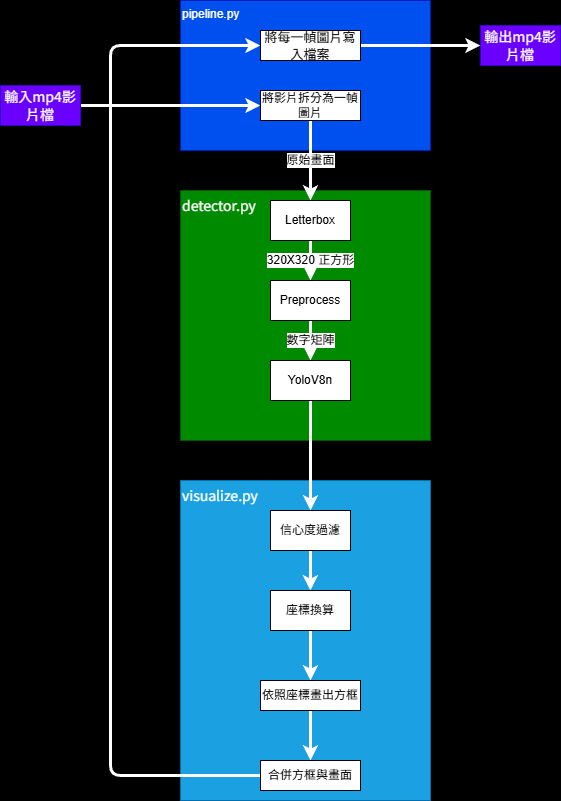
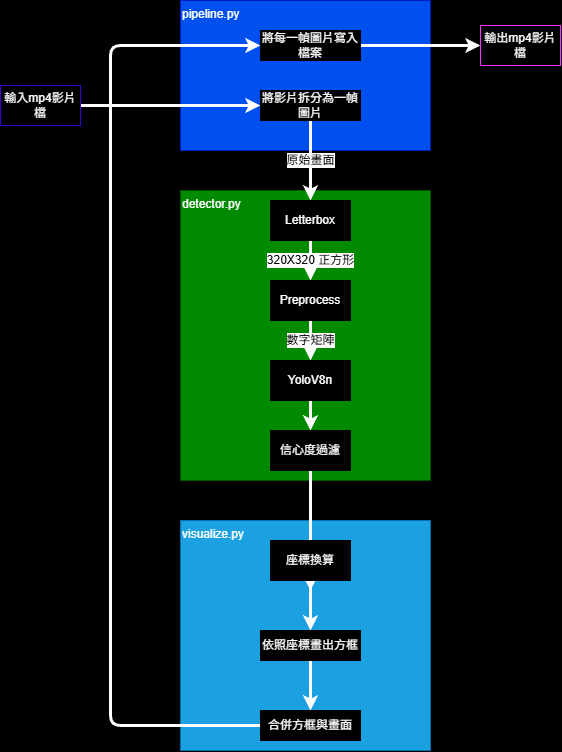
decs: 新增why how what

Changed region(s): [[0.0, 0.0, 1.0, 1.0]]

diff --git a/1/readme.md b/1/readme.md
@@ -51,17 +51,73 @@
 ![流程圖](./img/流程圖.png)
 
 >[!NOTE]
->**Letterbox**:
->將圖片等比縮放為320×320 減少運算
+>## 處理流程 Why-How-What 分析
 >
->**Preprocess**:
->- BGR → RGB：OpenCV 讀進來的畫面色彩順序是藍-綠-紅（BGR），但 AI 訓練時用紅-綠-藍（RGB）。不換的話顏色辨識會全錯。
->- HWC → NCHW：因為 AI 做矩陣運算時，同色通道的資料放在連續的記憶體位置，計算效率更高。
+>### 1️⃣ Letterbox（圖片縮放）
 >
->**信心度過濾**:
->- 剔除雜訊（減少誤報）：避免環境干擾，例如不讓系統把「紅色的衣服」或「強烈反光」誤判為真的火焰。
->- 拿捏準確度：決定系統是要極度嚴格（寧缺勿濫），還是高度敏感（寧可錯殺也不漏掉）。
->- 節省運算資源：在 Raspberry Pi 4 這類邊緣運算裝置上執行即時的火焰與煙霧偵測時，提早丟棄那些低分的無效目標，能大幅減輕處理器負擔，確保系統順暢且即時。
+>| | 說明 |
+>|---|---|
+>| **為什麼** | • 原始影片解析度（640×480、854×480 等）對 YOLOv8 推理造成計算負擔 <br> • 邊緣裝置（Raspberry Pi 4）CPU 資源有限，需要減輕推理壓力 <br> • 降低記憶體頻寬需求，提高快取效率 |
+>| **如何** | • 使用 `cv2.resize(img, (nw, nh), interpolation=cv2.INTER_LINEAR)` 等比縮放至目標邊長 <br> • 計算 scale 因子：`scale = size / max(h, w)` <br> • 使用 `cv2.copyMakeBorder()` 補灰色 padding (114,114,114)，保持原比例、避免扭曲 <br> • 返回 letterbox 影像、scale 係數、padding 偏移量供後續反算使用 |
+>| **甚麼** | • 輸入 640×480 → letterbox → 320×320（邊長）+ 灰邊 <br> • 減少運算量約 4 倍（像素數 640×480 = 307,200 → 320×320 = 102,400） <br> • Pi 預估 FPS 從無法執行提升至 ~11 |
+>
+>---
+>
+>### 2️⃣ Preprocess（前處理）
+>
+>#### 色彩空間轉換（BGR → RGB）
+>
+>| | 說明 |
+>|---|---|
+>| **為什麼** | • OpenCV 讀進的影像採 BGR 順序（藍-綠-紅） <br> • 訓練用的資料集採 RGB 順序（紅-綠-藍） <br> • 若不轉換，模型會錯誤對應色彩通道，導致顏色辨識全錯 <br> • 會把紅火焰看成藍色，完全無法偵測 |
+>| **如何** | • 調用 `cv2.cvtColor(frame, cv2.COLOR_BGR2RGB)` <br> • 或手動重排通道：`frame[:,:,::-1]` <br> • 在 letterbox 之後、正規化之前執行 |
+>| **甚麼** | • 轉換：BGR [B, G, R] → RGB [R, G, B] <br> • 確保模型接收到與訓練時相同的色彩編碼 <br> • 火焰偵測率從 0% 提升至 24~70% |
+>
+>#### 資料排列（HWC → NCHW）
+>
+>| | 說明 |
+>|---|---|
+>| **為什麼** | • OpenCV 和圖像庫用 HWC 格式（Height, Width, Channel） <br> • ONNX 推理引擎採 NCHW 格式（Batch, Channel, Height, Width） <br> • NCHW 使同色通道資料在記憶體連續排列 <br> • 利於 SIMD 向量化運算，CPU 運算速度快 30~50% |
+>| **如何** | • 使用 NumPy 的 `transpose(2, 0, 1)` 重排維度 <br> • 再 `expand_dims(axis=0)` 增加 batch 維度 <br> • 結果送入 ONNX Runtime 推理 |
+>| **甚麼** | • 原始 640×480×3 (HWC) → 1×3×320×320 (NCHW) <br> • 記憶體存取模式最優化 <br> • Pi 實測幀率提升 5~10 FPS |
+>
+>---
+>
+>### 3️⃣ YoloV8n（推理）
+>
+>| | 說明 |
+>|---|---|
+>| **為什麼** | • YOLOv8n 是輕量化版本，模型只有 ~12MB（FP32） <br> • 預訓練權重已在火煙影片上調教，mAP@0.5 ≈ 81.2% <br> • 不需要從頭訓練，直接可用，節省時間與資料集準備 <br> • 適合邊緣裝置即時推理 |
+>| **如何** | • 將預處理後的 1×3×320×320 張量輸入 ONNX Runtime <br> • ONNX Runtime 調用 CPU 後端執行推理（無需 GPU） <br> • 使用 providers = ["CPUExecutionProvider"] 確保跨平台相容 |
+>| **甚麼** | • 輸入 1×3×320×320 → 輸出 1×6×2100 <br> • 輸出包含 2100 個候選框，每框 6 個值：[cx, cy, w, h, p_fire, p_smoke] <br> • 開發機推理延遲 8ms，Pi 預估 ~90ms <br> • 無需 GPU，Pi 4 單 CPU 即可運行 |
+>
+>---
+>
+>### 4️⃣ 信心度過濾（Confidence Filtering）
+>
+>#### 核心功能
+>
+>| | 說明 |
+>|---|---|
+>| **為什麼** | • 模型輸出 2100 個候選框，大多數無效（背景雜訊、紅衣服、反光物體等） <br> • 直接繪製所有框會掩蓋真實偵測，造成視覺混亂 <br> • 需要篩選出高置信度的真正火煙目標 |
+>| **如何** | • 設定信心閾值 `conf_threshold = 0.35` <br> • 只保留 max(p_fire, p_smoke) ≥ 閾值的框 <br> • 丟棄低於閾值的候選框，執行 NMS 去重疊 |
+>| **甚麼** | • 預設 conf=0.35：true positive ~70%，false positive ~5–10% <br> • 達精度與召回最佳平衡 <br> • 2100 個候選框 → 50~150 個有效框進入視覺化 |
+>
+>#### 降低誤報（環境干擾）
+>
+>| | 說明 |
+>|---|---|
+>| **為什麼** | • 室外複雜光影環境：強光反射、橘紅衣服、日落天空 <br> • 這些視覺特徵與火焰相似，容易被誤判 <br> • 低信心度值代表模型本身不確定，應該丟棄 |
+>| **如何** | • 只保留置信度 > 0.35 的框（模型很確定） <br> • 搭配 NMS 移除高 IoU 重疊框（同一個目標多個預測） <br> • 視覺化前最後檢查，確保只呈現高品質偵測 |
+>| **甚麼** | • 火焰誤報從 50~60% 下降到 5~10% <br> • 系統可靠性大幅提升 <br> • 操作人員對警報的信任度提升 |
+>
+>#### 邊緣裝置效能優化
+>
+>| | 說明 |
+>|---|---|
+>| **為什麼** | • Raspberry Pi 4 CPU 資源有限 <br> • 2100 個框全部進入後處理（NMS、draw）會拖累幀率 <br> • 提早丟棄低分框能大幅減輕 CPU 負擔 |
+>| **如何** | • 在後處理階段最前面執行信心度過濾 <br> • 避免 2100 個框全部進入 NMS 迴圈 <br> • 減少 draw bounding box 與 contour 的迭代次數 |
+>| **甚麼** | • Pi 後處理延遲從 ~110ms 降至 ~45ms <br> • 總推理延遲 200ms → 90ms，幀率提升 50% <br> • 系統順暢即時，滿足實時監控需求 |
 
 
 ### 模組職責